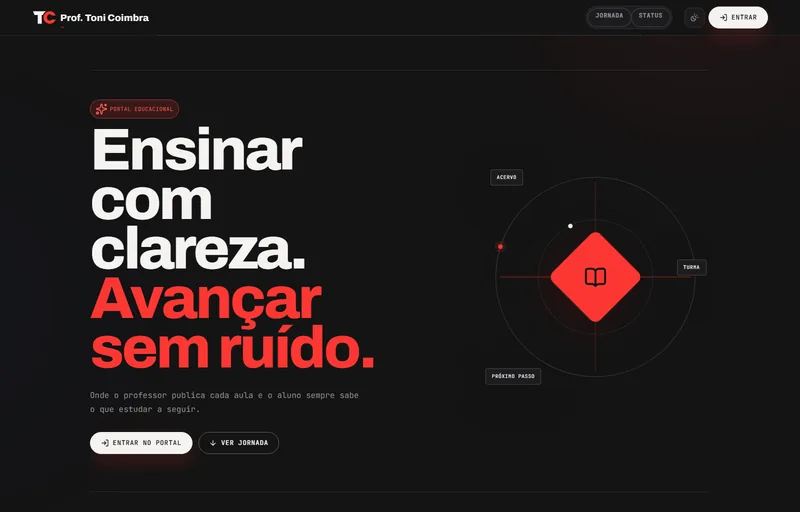
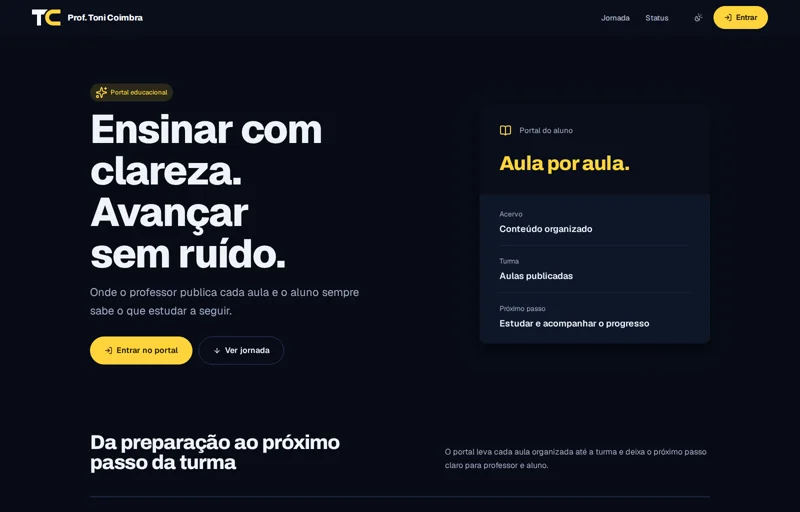
fix(portfolio): refina leitura mobile e atualiza ProfessorDash

diff --git a/design-system/caderno-noturno.html b/design-system/caderno-noturno.html
@@ -2419,7 +2419,7 @@ a.chip:hover { transform: translateY(-2px); }
         <ul class="gallery-track" data-gallery-track>
           <li class="gallery-item" data-gallery-title="ProfessorDash">
             <figure class="gcard">
[2 lines of base64/hex data omitted]
               <figcaption><span class="gcard-title">ProfessorDash</span> <span class="chip">Educação</span></figcaption>
             </figure>
           </li>

diff --git a/design-system/design-system.html b/design-system/design-system.html
@@ -6,12 +6,12 @@
   <meta name="color-scheme" content="dark">
   <title>Toni Coimbra — Design System</title>
   <meta name="description" content="Catálogo vivo do Caderno Noturno: marca, tokens, componentes e regras visuais do portfólio de Toni Coimbra.">
-  <link rel="icon" type="image/svg+xml" sizes="any" href="../assets/favicon.svg?v=20261112">
-  <link rel="apple-touch-icon" href="../assets/favicon.svg?v=20261112">
+  <link rel="icon" type="image/svg+xml" sizes="any" href="../assets/favicon.svg?v=2026111202">
+  <link rel="apple-touch-icon" href="../assets/favicon.svg?v=2026111202">
   <link rel="manifest" href="../site.webmanifest">
   <link rel="preload" href="../assets/fonts/archivo-latin.woff2" as="font" type="font/woff2" crossorigin>
   <link rel="preload" href="../assets/fonts/geist-latin-variable.woff2" as="font" type="font/woff2" crossorigin>
-  <link rel="stylesheet" href="../assets/css/style.css?v=20261112">
+  <link rel="stylesheet" href="../assets/css/style.css?v=2026111202">
 </head>
 
 <body class="ds-page">
@@ -19,7 +19,7 @@
 
   <header class="hdr" id="hdr">
     <a href="#top" class="mark" aria-label="Toni Coimbra — voltar ao topo">
-      <img class="brand-logo" src="../assets/logo.svg?v=20261112" alt="" width="57" height="32" aria-hidden="true">
+      <img class="brand-logo" src="../assets/logo.svg?v=2026111202" alt="" width="57" height="32" aria-hidden="true">
       <span class="brand-name">Toni Coimbra<span>Design system · Caderno Noturno</span></span>
     </a>
     <nav class="navchain" aria-label="Seções do design system">
@@ -49,7 +49,7 @@
         </div>
 
         <figure class="ds-mark-stage">
-          <img src="../assets/logo.svg?v=20261112" width="404" height="227"
+          <img src="../assets/logo.svg?v=2026111202" width="404" height="227"
                alt="Monograma TC: um T claro cujo braço direito é cortado em curva, ao lado de um C amarelo, separados por uma fenda curva.">
           <figcaption class="mono-xs">assets/logo.svg · viewBox 403,93×226,77</figcaption>
         </figure>
@@ -70,25 +70,25 @@
         <h3 class="ds-mark-sub">Redução</h3>
         <p class="body-sm ds-mark-note">O desenho não tem corte óptico próprio: a fenda de 7,5 unidades continua aberta em 16 px. Abaixo de 24 px de altura, use o selo, que põe o monograma sobre o campo noturno do cabeçalho.</p>
         <div class="ds-scale">
-          <figure class="ds-scale-step" style="--mark-h: 64px"><img src="../assets/logo.svg?v=20261112" alt=""><figcaption class="mono-xs">64</figcaption></figure>
-          <figure class="ds-scale-step" style="--mark-h: 48px"><img src="../assets/logo.svg?v=20261112" alt=""><figcaption class="mono-xs">48</figcaption></figure>
-          <figure class="ds-scale-step" style="--mark-h: 32px"><img src="../assets/logo.svg?v=20261112" alt=""><figcaption class="mono-xs">32</figcaption></figure>
-          <figure class="ds-scale-step" style="--mark-h: 24px"><img src="../assets/logo.svg?v=20261112" alt=""><figcaption class="mono-xs">24</figcaption></figure>
-          <figure class="ds-scale-step ds-scale-step--cut" style="--mark-h: 16px"><img src="../assets/favicon.svg?v=20261112" alt=""><figcaption class="mono-xs">16 · selo</figcaption></figure>
+          <figure class="ds-scale-step" style="--mark-h: 64px"><img src="../assets/logo.svg?v=2026111202" alt=""><figcaption class="mono-xs">64</figcaption></figure>
+          <figure class="ds-scale-step" style="--mark-h: 48px"><img src="../assets/logo.svg?v=2026111202" alt=""><figcaption class="mono-xs">48</figcaption></figure>
+          <figure class="ds-scale-step" style="--mark-h: 32px"><img src="../assets/logo.svg?v=2026111202" alt=""><figcaption class="mono-xs">32</figcaption></figure>
+          <figure class="ds-scale-step" style="--mark-h: 24px"><img src="../assets/logo.svg?v=2026111202" alt=""><figcaption class="mono-xs">24</figcaption></figure>
+          <figure class="ds-scale-step ds-scale-step--cut" style="--mark-h: 16px"><img src="../assets/favicon.svg?v=2026111202" alt=""><figcaption class="mono-xs">16 · selo</figcaption></figure>
         </div>
 
         <h3 class="ds-mark-sub">Fundos</h3>
         <div class="ds-grounds">
           <figure class="ds-ground ds-ground--dark">
-            <img src="../assets/logo.svg?v=20261112" alt="">
+            <img src="../assets/logo.svg?v=2026111202" alt="">
             <figcaption class="mono-xs">Noturno · #080c17 <span>uso padrão</span></figcaption>
           </figure>
           <figure class="ds-ground ds-ground--light">
-            <img src="../assets/logo.svg?v=20261112" alt="">
+            <img src="../assets/logo.svg?v=2026111202" alt="">
             <figcaption class="mono-xs">Papel · #f1f0ec <span>o T vira tinta; o C continua amarelo</span></figcaption>
           </figure>
           <figure class="ds-ground ds-ground--mono">
-            <img src="../assets/logo.svg?v=20261112" alt="">
+            <img src="../assets/logo.svg?v=2026111202" alt="">
             <figcaption class="mono-xs">Monocromático <span>a fenda sustenta a leitura sem o amarelo</span></figcaption>
           </figure>
         </div>
@@ -99,7 +99,7 @@
           <figure class="ds-lockup" style="--mark-h: 40px">
             <span class="ds-lockup-clear">
               <span class="ds-lockup-h">
-                <img src="../assets/logo.svg?v=20261112" alt="">
+                <img src="../assets/logo.svg?v=2026111202" alt="">
                 <span class="ds-lockup-name">Toni<br>Coimbra</span>
               </span>
             </span>
@@ -108,7 +108,7 @@
           <figure class="ds-lockup" style="--mark-h: 54px">
             <span class="ds-lockup-clear">
               <span class="ds-lockup-v">
-                <img src="../assets/logo.svg?v=20261112" alt="">
+                <img src="../assets/logo.svg?v=2026111202" alt="">
                 <span class="ds-lockup-name">Toni Coimbra</span>
               </span>
             </span>
@@ -116,7 +116,7 @@
           </figure>
           <figure class="ds-lockup" style="--mark-h: 64px">
             <span class="ds-lockup-clear">
-              <img src="../assets/favicon.svg?v=20261112" alt="">
+              <img src="../assets/favicon.svg?v=2026111202" alt="">
             </span>
             <figcaption class="mono-xs">Selo <span>avatar e favicon · assets/favicon.svg</span></figcaption>
           </figure>
@@ -349,7 +349,7 @@
             <ul class="gallery-track" data-gallery-track>
               <li class="gallery-item" data-gallery-title="ProfessorDash">
                 <figure class="gcard">
-                  <img src="../assets/img/professordash.webp?v=20261112" alt="Página inicial do ProfessorDash, com a chamada Ensinar com clareza e parte do diagrama de aprendizagem." loading="lazy" decoding="async" width="800" height="512">
+                  <img src="../assets/img/professordash.webp?v=2026111202" alt="Página inicial do ProfessorDash no tema noturno, com a chamada Ensinar com clareza e o painel Aula por aula." loading="lazy" decoding="async" width="800" height="512">
                   <figcaption><span class="gcard-title">ProfessorDash</span> <span class="chip">Educação</span></figcaption>
                 </figure>
               </li>
@@ -446,6 +446,6 @@
     </div>
   </footer>
 
-  <script src="../assets/js/gallery.js?v=20261112" defer></script>
+  <script src="../assets/js/gallery.js?v=2026111202" defer></script>
 </body>
 </html>

diff --git a/index.html b/index.html
@@ -17,8 +17,8 @@
   <meta name="theme-color" content="#0a0e1a">
   <link rel="canonical" href="https://tonicoimbra.com/">
 
-  <link rel="icon" type="image/svg+xml" sizes="any" href="assets/favicon.svg?v=20261112">
-  <link rel="apple-touch-icon" href="assets/favicon.svg?v=20261112">
+  <link rel="icon" type="image/svg+xml" sizes="any" href="assets/favicon.svg?v=2026111202">
+  <link rel="apple-touch-icon" href="assets/favicon.svg?v=2026111202">
   <link rel="manifest" href="site.webmanifest">
   <!-- Archivo draws the name and Geist every line of running text, so both
        are in the first screen; preloading only one leaves the other swapping
@@ -26,7 +26,7 @@
        arrive late without moving anything. -->
   <link rel="preload" href="assets/fonts/archivo-latin.woff2" as="font" type="font/woff2" crossorigin>
   <link rel="preload" href="assets/fonts/geist-latin-variable.woff2" as="font" type="font/woff2" crossorigin>
-  <link rel="stylesheet" href="assets/css/style.css?v=20261112">
+  <link rel="stylesheet" href="assets/css/style.css?v=2026111202">
 
   <!-- Animation is enabled only after the runtime starts successfully. -->
 </head>
@@ -37,7 +37,7 @@
   <!-- ══ NAVEGAÇÃO FIXA ══════════════════════════════════════════ -->
   <header class="hdr" id="hdr">
     <a href="#top" class="mark" aria-label="Toni Coimbra — voltar ao topo">
-      <img class="brand-logo" src="assets/logo.svg?v=20261112" alt="" width="57" height="32" aria-hidden="true">
+      <img class="brand-logo" src="assets/logo.svg?v=2026111202" alt="" width="57" height="32" aria-hidden="true">
       <span class="brand-name">Toni Coimbra<span>Design de origem. Código de profissão.</span></span>
     </a>
 
@@ -123,11 +123,11 @@
           <!-- ProfessorDash — destaque -->
           <article class="box--media box--feature">
             <span class="pshot">
-              <img src="assets/img/professordash.webp?v=20261112"
-                   srcset="assets/img/professordash.webp?v=20261112 800w, assets/img/professordash@2x.webp?v=20261112 1600w"
+              <img src="assets/img/professordash.webp?v=2026111202"
+                   srcset="assets/img/professordash.webp?v=2026111202 800w, assets/img/professordash@2x.webp?v=2026111202 1600w"
                    sizes="(max-width: 900px) calc(100vw - 8vw), (min-width: 1320px) 704px, 56vw"
                    width="800" height="512" loading="lazy" decoding="async"
-                   alt="Página inicial do ProfessorDash, com a chamada Ensinar com clareza e parte do diagrama de aprendizagem.">
+                   alt="Página inicial do ProfessorDash no tema noturno, com a chamada Ensinar com clareza e o painel Aula por aula.">
               <span class="project-cover"><img src="assets/img/cover-education-640.webp" alt="" width="640" height="640" loading="lazy" decoding="async"></span>
             </span>
             <div class="pbody">
@@ -597,7 +597,7 @@
       <div class="grid grid-cols-2 lg:grid-cols-4 gap-8 md:gap-12">
         <div class="fcol fcol--wide">
           <a href="#top" class="mark mb-6" aria-label="Toni Coimbra — voltar ao topo">
-            <img class="brand-logo" src="assets/logo.svg?v=20261112" alt="" width="57" height="32" loading="lazy">
+            <img class="brand-logo" src="assets/logo.svg?v=2026111202" alt="" width="57" height="32" loading="lazy">
             <span class="brand-name">Toni Coimbra</span>
           </a>
           <p class="body-sm measure max-w-md">
@@ -641,6 +641,6 @@
     </div>
   </footer>
 
-  <script src="assets/js/main.js?v=20261112" defer></script>
+  <script src="assets/js/main.js?v=2026111202" defer></script>
 </body>
 </html>

diff --git a/assets/css/style.css b/assets/css/style.css
@@ -839,7 +839,7 @@ a.chip:hover { transform: translateY(-2px); }
   font-weight: var(--weight-display);
   font-size: clamp(52px, 12vw, 210px);
   line-height: .92;
-  letter-spacing: -.045em;
+  letter-spacing: -.04em;
   white-space: nowrap;
   padding-bottom: .12em;
 }
@@ -1656,7 +1656,7 @@ footer {
   .hero-art { min-height: 300px; }
   .collage-in { height: min(37vw, 330px, 100%); }
   .art-caption { flex-direction: column; text-align: center; gap: 3px; }
-  .hero-name { gap: .12em; font-size: 11.8vw; }
+  .hero-name { gap: .24em; font-size: 11.8vw; }
   .projects-grid .box--feature { grid-template-columns: 1fr; gap: 0; }
   .box--feature .pshot { aspect-ratio: 25 / 16; }
   .box--feature .pbody { padding-top: 22px; }
@@ -1686,7 +1686,7 @@ footer {
   .hero-art { min-height: 270px; }
   .collage { margin-top: 12px; }
   .collage-in { height: min(220px, 100%); }
-  .art-caption { flex-direction: row; gap: 4px 8px; }
+  .art-caption { flex-direction: column; gap: var(--space-1); }
   .hero-name { font-size: 11.5vw; }
   .hero-bottomline { gap: 12px; }
   .hero-bottomline > span { max-width: 28ch; }

diff --git a/design-system/REVIEW.md b/design-system/REVIEW.md
@@ -3,6 +3,14 @@
 Referência: `design-system.html`. Implementação: `../index.html`,
 `../assets/css/style.css` e `../assets/js/main.js`.
 
+## 2026-11-12 — Refinamentos após revisão
+
+- Captura do ProfessorDash atualizada a partir do portal publicado, em WebP 800 e 1600px.
+- Assinatura com mais espaço entre as palavras em telas pequenas e tracking de -0.04em.
+- Legenda da colagem em duas linhas no celular para distinguir os dois textos.
+- Assets versionados com data e revisão (YYYYMMDDNN), incluindo o catálogo.
+- Conferência visual a 390 e 1440px; documento autônomo regenerado.
+
 ## 2026-11-12 — Caderno Noturno substitui o Volta Atelier
 
 O portfólio passa a usar o Caderno Noturno (DS v4), o design system que o
